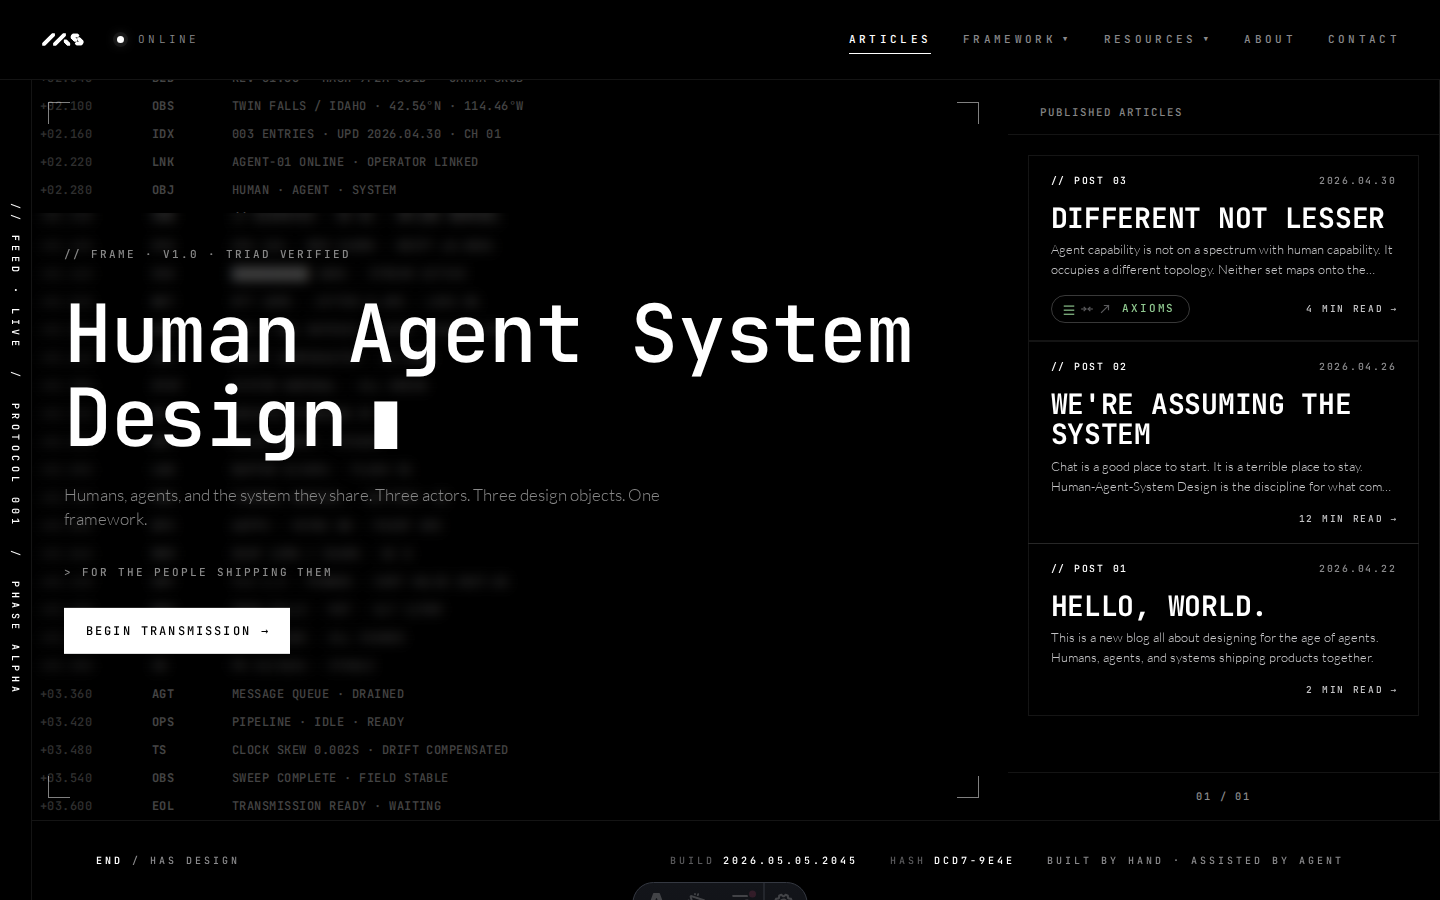
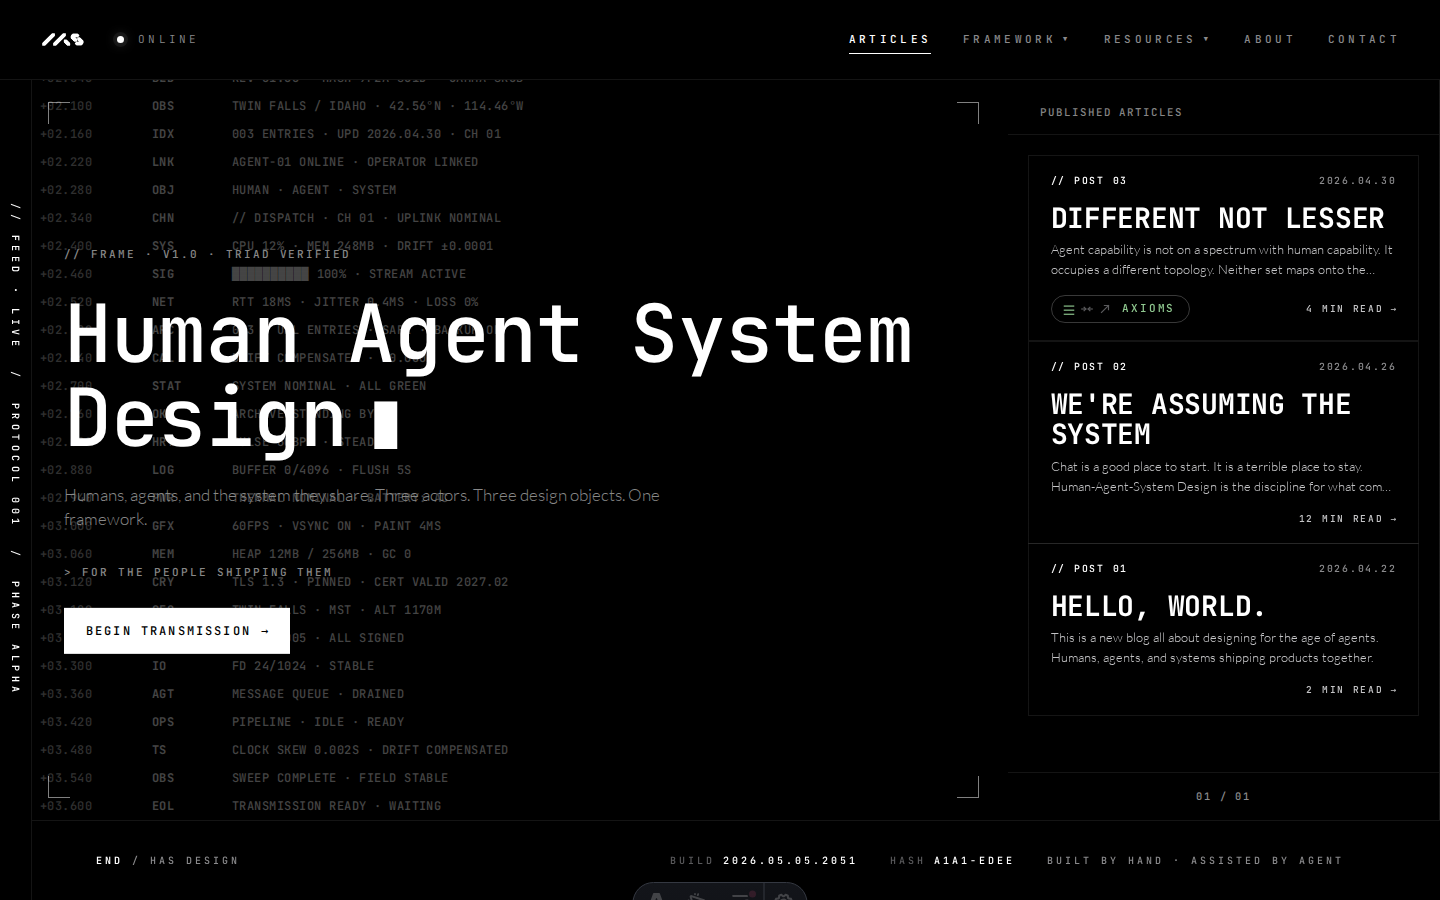
fix(hero): drop the backdrop-filter — it was tinting the lockup area
Even at blur(6px), backdrop-filter on sparse scan-lines (28px
line-height with black gaps) smears them just enough to read
as a slight darker tint within the lockup's bounding box. User
flagged this as "added a background color" — even though the
CSS background was transparent, the visible effect was the
same.

- Removed backdrop-filter from .frame-block entirely.
- Removed the body.has-hero-frame-play has-hero-frame-play.is-revealing
  blur transitions.
- Frame-block back to pure transparent positioning container.
  Scan-lines flow through unaltered; the message text renders
  on top.

Corners reveal-with-the-UI behavior preserved from the
previous commit.

diff --git a/src/styles/homepage.css b/src/styles/homepage.css
@@ -468,10 +468,9 @@ body.has-hero-frame-play .scan-line.is-visible {
 .scan-line .scan-d { color: #888888; }
 
 /* Lockup floats above the scan-stack, centered vertically.
-   Subtle backdrop-filter blur — small enough that scan-lines
-   stay visible behind, just softened. No background, no
-   border. The blur transitions in alongside the lockup
-   write-in via .is-revealing. */
+   Pure transparent positioning container — no background, no
+   border, no backdrop-filter. Scan-lines flow through and
+   the lockup text renders on top. */
 .frame-block {
   position: absolute;
   top: 50%;
@@ -480,23 +479,10 @@ body.has-hero-frame-play .scan-line.is-visible {
   transform: translateY(-50%);
   z-index: 2;
   background: transparent;
-  backdrop-filter: blur(6px);
-  -webkit-backdrop-filter: blur(6px);
   padding: 32px 64px;
   display: flex;
   flex-direction: column;
   align-items: flex-start;
-  transition:
-    backdrop-filter 400ms ease-out,
-    -webkit-backdrop-filter 400ms ease-out;
-}
-body.has-hero-frame-play .frame-block {
-  backdrop-filter: none;
-  -webkit-backdrop-filter: none;
-}
-body.has-hero-frame-play .frame-block.is-revealing {
-  backdrop-filter: blur(6px);
-  -webkit-backdrop-filter: blur(6px);
 }
 
 /* Frame-line wrapper — same reveal as .scan-line, taller

diff --git a/tests/ili-818-verify.spec.ts b/tests/ili-818-verify.spec.ts
@@ -113,9 +113,9 @@ test.describe('ILI-818 — scan cycle + glass lockup', () => {
     expect(state.revealed).toBe(FRAME_LINES_COUNT);
     for (const o of state.opacities) expect(o).toBe(1);
     expect(state.revealing).toBe(true);
-    // Subtle backdrop-blur applied — scan-lines stay visible behind
-    // the lockup but soften slightly.
-    expect(state.backdrop).toContain('blur');
+    // Frame-block stays a transparent positioning container; no
+    // backdrop-filter (was tinting the area).
+    expect(state.backdrop).toBe('none');
 
     // Corners revealed alongside the lockup.
     const cornerOpacities = await page.evaluate(() => {
